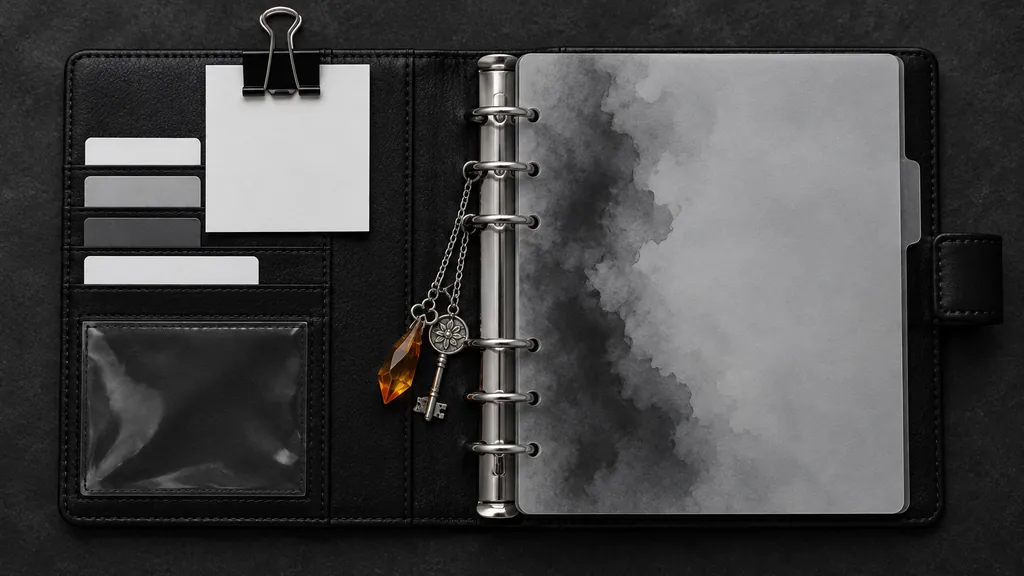
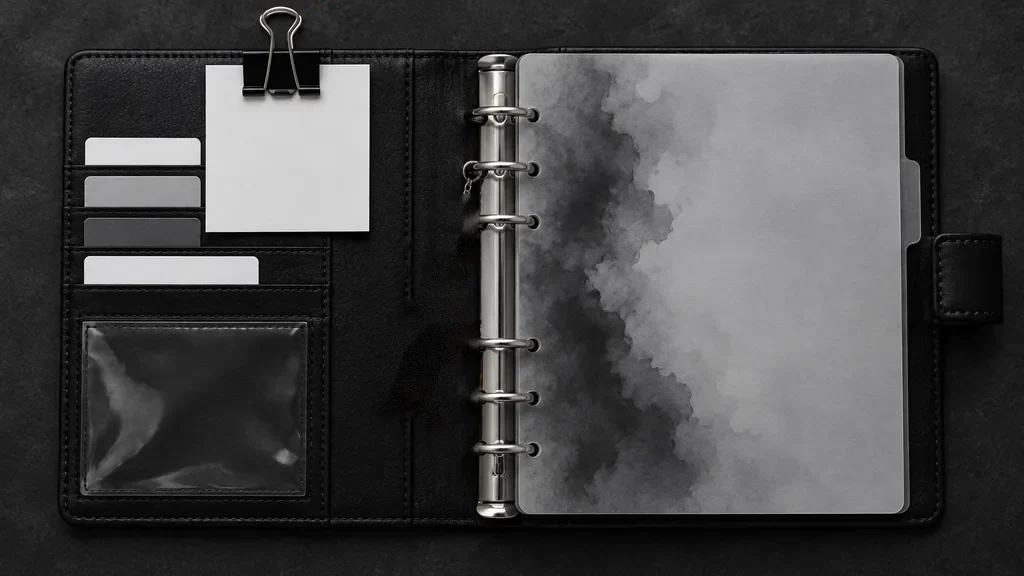
v107: agenda cerrada A5 centrada, dije realista dentro y fuera (se mece), polaroid sin tapar la nota, sombras de contacto
Claude-Session: https://claude.ai/code/session_01BB8eTEaLMvEnfDMWBboEm5

Changed region(s): [[0.3438, 0.3438, 0.4688, 0.75]]

diff --git a/sw.js b/sw.js
@@ -1,7 +1,7 @@
 // Funciona sin internet y aunque el sitio esté pausado: guarda TODA la app
 // (incluidos los decodificadores de imágenes de PDF) en el dispositivo.
-const V = 'apuntes-v106';
-const CORE = ["./", "js/ambient.js", "css/app.css", "icons/apple-180.png", "icons/icon-192.png", "icons/icon-512.png", "icons/maskable-512.png", "index.html", "js/app.js", "js/db.js", "js/fonts.js", "js/home.js", "js/imageeditor.js", "js/ink.js", "js/minikb.js", "js/tpledit.js", "js/notebook.js", "js/pdfview.js", "js/stickers.js", "js/study.js", "js/summarizer.js", "js/sync.js", "js/solver.js", "js/loona.js", "js/recorder.js", "js/music.js", "js/backup.js", "js/handsfree.js", "js/cmds.js", "js/quota.js", "js/coach.js", "js/errors.js", "js/quiz.js", "js/plan.js", "js/game.js", "data/indices.json", "js/live.js", "js/agenda.js", "vendor/page-flip/page-flip.module.js", "img/portada.webp", "img/marco.webp", "img/marco-top.webp", "img/clip.webp", "img/borde-bio.webp", "img/hero-bio.webp", "img/hero-quim.webp", "img/hero-gen.webp", "img/borde-quim.webp", "img/borde-gen.webp", "img/dije-fuera.webp", "img/nota-luna.webp", "img/marco-top-claro.webp", "img/marco-top-grafito.webp", "img/cuero.jpg", "img/papel.jpg", "img/agenda.webp", "img/ola-top.webp", "img/ola-big.webp", "img/lam-celula-top.webp", "img/lam-celula-big.webp", "img/lam-genetica-top.webp", "img/lam-genetica-big.webp", "img/lam-corpo-top.webp", "img/lam-corpo-big.webp", "img/lam-plantas-top.webp", "img/lam-plantas-big.webp", "img/lam-quimica-top.webp", "img/lam-quimica-big.webp", "img/lam-fisica-top.webp", "img/lam-fisica-big.webp", "img/lam-mar-top.webp", "img/lam-mar-big.webp", "img/agenda-s.webp", "img/deco-polaroid.webp", "img/deco-corazon.webp", "img/deco-sello.webp", "img/grano.png", "js/tapes.js", "js/templates.js", "js/ui.js", "js/wheel.js", "manifest.webmanifest", "vendor/katex/katex.min.js", "vendor/katex/katex.min.css", "vendor/katex/fonts/KaTeX_AMS-Regular.woff2", "vendor/katex/fonts/KaTeX_Caligraphic-Bold.woff2", "vendor/katex/fonts/KaTeX_Caligraphic-Regular.woff2", "vendor/katex/fonts/KaTeX_Fraktur-Bold.woff2", "vendor/katex/fonts/KaTeX_Fraktur-Regular.woff2", "vendor/katex/fonts/KaTeX_Main-Bold.woff2", "vendor/katex/fonts/KaTeX_Main-BoldItalic.woff2", "vendor/katex/fonts/KaTeX_Main-Italic.woff2", "vendor/katex/fonts/KaTeX_Main-Regular.woff2", "vendor/katex/fonts/KaTeX_Math-BoldItalic.woff2", "vendor/katex/fonts/KaTeX_Math-Italic.woff2", "vendor/katex/fonts/KaTeX_SansSerif-Bold.woff2", "vendor/katex/fonts/KaTeX_SansSerif-Italic.woff2", "vendor/katex/fonts/KaTeX_SansSerif-Regular.woff2", "vendor/katex/fonts/KaTeX_Script-Regular.woff2", "vendor/katex/fonts/KaTeX_Size1-Regular.woff2", "vendor/katex/fonts/KaTeX_Size2-Regular.woff2", "vendor/katex/fonts/KaTeX_Size3-Regular.woff2", "vendor/katex/fonts/KaTeX_Size4-Regular.woff2", "vendor/katex/fonts/KaTeX_Typewriter-Regular.woff2", "vendor/pdf-lib.min.js", "vendor/pdf.min.mjs", "vendor/pdf.worker.min.mjs", "vendor/standard_fonts/FoxitDingbats.pfb", "vendor/standard_fonts/FoxitFixed.pfb", "vendor/standard_fonts/FoxitFixedBold.pfb", "vendor/standard_fonts/FoxitFixedBoldItalic.pfb", "vendor/standard_fonts/FoxitFixedItalic.pfb", "vendor/standard_fonts/FoxitSerif.pfb", "vendor/standard_fonts/FoxitSerifBold.pfb", "vendor/standard_fonts/FoxitSerifBoldItalic.pfb", "vendor/standard_fonts/FoxitSerifItalic.pfb", "vendor/standard_fonts/FoxitSymbol.pfb", "vendor/standard_fonts/LiberationSans-Bold.ttf", "vendor/standard_fonts/LiberationSans-BoldItalic.ttf", "vendor/standard_fonts/LiberationSans-Italic.ttf", "vendor/standard_fonts/LiberationSans-Regular.ttf", "vendor/wasm/jbig2.wasm", "vendor/wasm/jbig2_nowasm_fallback.js", "vendor/wasm/openjpeg.wasm", "vendor/wasm/openjpeg_nowasm_fallback.js", "vendor/wasm/qcms_bg.wasm"];
+const V = 'apuntes-v107';
+const CORE = ["./", "js/ambient.js", "css/app.css", "icons/apple-180.png", "icons/icon-192.png", "icons/icon-512.png", "icons/maskable-512.png", "index.html", "js/app.js", "js/db.js", "js/fonts.js", "js/home.js", "js/imageeditor.js", "js/ink.js", "js/minikb.js", "js/tpledit.js", "js/notebook.js", "js/pdfview.js", "js/stickers.js", "js/study.js", "js/summarizer.js", "js/sync.js", "js/solver.js", "js/loona.js", "js/recorder.js", "js/music.js", "js/backup.js", "js/handsfree.js", "js/cmds.js", "js/quota.js", "js/coach.js", "js/errors.js", "js/quiz.js", "js/plan.js", "js/game.js", "data/indices.json", "js/live.js", "js/agenda.js", "vendor/page-flip/page-flip.module.js", "img/portada.webp", "img/marco.webp", "img/marco-top.webp", "img/clip.webp", "img/borde-bio.webp", "img/hero-bio.webp", "img/hero-quim.webp", "img/hero-gen.webp", "img/borde-quim.webp", "img/borde-gen.webp", "img/dije-fuera.webp", "img/dije-real.webp", "img/nota-luna.webp", "img/marco-top-claro.webp", "img/marco-top-grafito.webp", "img/cuero.jpg", "img/papel.jpg", "img/agenda.webp", "img/ola-top.webp", "img/ola-big.webp", "img/lam-celula-top.webp", "img/lam-celula-big.webp", "img/lam-genetica-top.webp", "img/lam-genetica-big.webp", "img/lam-corpo-top.webp", "img/lam-corpo-big.webp", "img/lam-plantas-top.webp", "img/lam-plantas-big.webp", "img/lam-quimica-top.webp", "img/lam-quimica-big.webp", "img/lam-fisica-top.webp", "img/lam-fisica-big.webp", "img/lam-mar-top.webp", "img/lam-mar-big.webp", "img/agenda-s.webp", "img/deco-polaroid.webp", "img/deco-corazon.webp", "img/deco-sello.webp", "img/grano.png", "js/tapes.js", "js/templates.js", "js/ui.js", "js/wheel.js", "manifest.webmanifest", "vendor/katex/katex.min.js", "vendor/katex/katex.min.css", "vendor/katex/fonts/KaTeX_AMS-Regular.woff2", "vendor/katex/fonts/KaTeX_Caligraphic-Bold.woff2", "vendor/katex/fonts/KaTeX_Caligraphic-Regular.woff2", "vendor/katex/fonts/KaTeX_Fraktur-Bold.woff2", "vendor/katex/fonts/KaTeX_Fraktur-Regular.woff2", "vendor/katex/fonts/KaTeX_Main-Bold.woff2", "vendor/katex/fonts/KaTeX_Main-BoldItalic.woff2", "vendor/katex/fonts/KaTeX_Main-Italic.woff2", "vendor/katex/fonts/KaTeX_Main-Regular.woff2", "vendor/katex/fonts/KaTeX_Math-BoldItalic.woff2", "vendor/katex/fonts/KaTeX_Math-Italic.woff2", "vendor/katex/fonts/KaTeX_SansSerif-Bold.woff2", "vendor/katex/fonts/KaTeX_SansSerif-Italic.woff2", "vendor/katex/fonts/KaTeX_SansSerif-Regular.woff2", "vendor/katex/fonts/KaTeX_Script-Regular.woff2", "vendor/katex/fonts/KaTeX_Size1-Regular.woff2", "vendor/katex/fonts/KaTeX_Size2-Regular.woff2", "vendor/katex/fonts/KaTeX_Size3-Regular.woff2", "vendor/katex/fonts/KaTeX_Size4-Regular.woff2", "vendor/katex/fonts/KaTeX_Typewriter-Regular.woff2", "vendor/pdf-lib.min.js", "vendor/pdf.min.mjs", "vendor/pdf.worker.min.mjs", "vendor/standard_fonts/FoxitDingbats.pfb", "vendor/standard_fonts/FoxitFixed.pfb", "vendor/standard_fonts/FoxitFixedBold.pfb", "vendor/standard_fonts/FoxitFixedBoldItalic.pfb", "vendor/standard_fonts/FoxitFixedItalic.pfb", "vendor/standard_fonts/FoxitSerif.pfb", "vendor/standard_fonts/FoxitSerifBold.pfb", "vendor/standard_fonts/FoxitSerifBoldItalic.pfb", "vendor/standard_fonts/FoxitSerifItalic.pfb", "vendor/standard_fonts/FoxitSymbol.pfb", "vendor/standard_fonts/LiberationSans-Bold.ttf", "vendor/standard_fonts/LiberationSans-BoldItalic.ttf", "vendor/standard_fonts/LiberationSans-Italic.ttf", "vendor/standard_fonts/LiberationSans-Regular.ttf", "vendor/wasm/jbig2.wasm", "vendor/wasm/jbig2_nowasm_fallback.js", "vendor/wasm/openjpeg.wasm", "vendor/wasm/openjpeg_nowasm_fallback.js", "vendor/wasm/qcms_bg.wasm"];
 self.addEventListener('install', e => {
   e.waitUntil(caches.open(V).then(async c => {
     // de a poco, para que un archivo que falle no impida guardar el resto

diff --git a/js/home.js b/js/home.js
@@ -1,6 +1,6 @@
 // Inicio estilo launcher en cuero: materias como cuadernos, dock inferior.
 import * as db from './db.js';
-export const APP_VERSION = 106;
+export const APP_VERSION = 107;
 import * as sync from './sync.js';
 import { h, icon, iconBtn, COVERS, modal, ask, confirmBox, toast, pickFile, download } from './ui.js';
 import { addFontFiles, DAFONT } from './fonts.js';
@@ -81,6 +81,7 @@ export async function renderHome(app, go0) {
 
   const scene = h('div', { class: 'agenda closed' },
     h('img', { class: 'ag-bg', src: 'img/agenda.webp', srcset: 'img/agenda-s.webp 1024w, img/agenda.webp 1536w', sizes: '(max-width: 700px) 1000px, 100vw', alt: '', draggable: false, fetchpriority: 'high' }),
+    h('img', { class: 'ag-dije-in', src: 'img/dije-real.webp', alt: '', draggable: false, 'aria-hidden': 'true' }),   // dije realista colgado de la argolla
     h('button', { class: 'ag-z ag-note ag-hot', style: { left: '20%', top: '12.6%', width: '16.2%', height: '28.2%' }, 'aria-label': 'Nota del clip: escribe un recordatorio', title: 'Tu nota: toca para escribir un recordatorio', onclick: editNote },
       h('span', { class: 'ag-hi' }, saludo().hi),
       h('span', { class: 'ag-date' }, saludo().date),
@@ -91,7 +92,7 @@ export async function renderHome(app, go0) {
     card('c3', 8.5, 38.2, 10.8, 'Música', 'YouTube', () => import('./music.js').then(m => m.openMusic())),
     card('c4', 8.5, 45, 16.4, 'Ambiente', ambPlaying() ? 'sonando' : 'lluvia, chimenea…', e => ambientMenu(e.currentTarget)),
     pocket,
-    deco('polaroid', 28.3, 37.6, 7.4, 'rotate(5deg)', 'Polaroid: tu reto auténtico de hoy', autentica),
+    deco('polaroid', 29.7, 41.6, 6.4, 'rotate(3deg)', 'Polaroid: tu reto auténtico de hoy', autentica),
     deco('corazon', 29.2, 57, 7, 'rotate(-7deg)', 'Dato de medicina para el ENEM', medFact),
     deco('sello', 66, 72, 9.6, 'rotate(-8deg)', lastOk ? 'Sello: seguir estudiando' : 'Sello: nueva materia', () => lastOk ? go(lastS.hash) : newSubject(go)),
     portada(),
@@ -115,7 +116,7 @@ export async function renderHome(app, go0) {
   const cover = h('div', { class: 'ag-cover init', 'aria-hidden': 'true' },
     h('div', { class: 'agc-front' }, h('span', { class: 'agc-strap' }), h('span', { class: 'agc-name' }, 'Loona'), h('span', { class: 'agc-moon' }), h('span', { class: 'agc-hint' }, 'Toca para abrir')),
     h('div', { class: 'agc-back' }));
-  scene.append(h('div', { class: 'ag-desk', 'aria-hidden': 'true' }), h('img', { class: 'ag-dije-out', src: 'img/dije-fuera.webp', alt: '', draggable: false }), cover);
+  scene.append(h('div', { class: 'ag-desk', 'aria-hidden': 'true' }), h('img', { class: 'ag-dije-out', src: 'img/dije-real.webp', alt: '', draggable: false }), cover);
   cover.addEventListener('click', () => openAgenda());
   // tarjeta «Plan de hoy»: capítulos que tocan hoy y preguntas para repasar
   Promise.all([import('./plan.js').then(m => m.todayPlan()), import('./errors.js').then(m => m.errorsSummary())]).then(([t, e]) => {

diff --git a/css/app.css b/css/app.css
@@ -2050,3 +2050,27 @@ html.lite .sum.tpl-lamina .lam-big { animation: none !important; }
 .plan-ahead.hot { border-color: #D4202C; border-style: solid; box-shadow: 0 0 18px rgba(212,32,44,.2); }
 .plan-pace { margin: 0; padding: 8px 12px; border-radius: 10px; background: rgba(255,255,255,.04); font-weight: 600; }
 .plan-pace.up { color: #5fd39c; } .plan-pace.down { color: #ffb4b8; }
+
+/* ============ v107: agenda cerrada en formato A5 (centrada) y dije realista que se mece ============ */
+.agenda .ag-cover { width: 33.2% !important; transition: translate .9s cubic-bezier(.65,.05,.25,1); }
+.agenda.closed .ag-cover { translate: -13.4cqw 0; }
+.agenda::after { content: ''; position: absolute; top: 0; right: 0; width: 34%; height: 100%; z-index: 5; pointer-events: none; opacity: 0;
+  background: radial-gradient(120% 100% at 20% 50%, #1b1a1b, #121112 70%); transition: opacity .35s ease .45s; }
+.agenda.closed::after { opacity: 1; transition-delay: 0s; }
+.agenda.closed .ag-desk { width: 66.5%; }
+.ag-dije-out { left: 31.2% !important; top: 18% !important; width: 4.6% !important; transform-origin: 50% 3% !important; translate: 0 0; transition: translate .9s cubic-bezier(.65,.05,.25,1);
+  filter: drop-shadow(.35cqw .7cqw .45cqw rgba(0,0,0,.75)) drop-shadow(0 0 .2cqw rgba(0,0,0,.5)) !important; }
+.agenda.closed .ag-dije-out { animation: dijeSway 6.5s ease-in-out infinite !important; transform: rotate(3deg); }
+@keyframes dijeSway { 0%, 100% { transform: rotate(3.5deg); } 50% { transform: rotate(-2.5deg); } }
+.agenda:not(.closed) .ag-dije-out { translate: 13.4cqw 0; }
+@media (prefers-reduced-motion: reduce) { .agenda.closed .ag-dije-out { animation: none !important; } }
+.ag-dije-in { position: absolute; left: 41.9%; top: 35.2%; width: 7.4%; height: auto; z-index: 3; pointer-events: none; transform-origin: 50% 2.5%; transform: rotate(14deg);
+  filter: drop-shadow(.5cqw .9cqw .5cqw rgba(0,0,0,.8)) drop-shadow(0 0 .25cqw rgba(0,0,0,.6)); animation: dijeIn 7s ease-in-out infinite; }
+@keyframes dijeIn { 0%, 100% { transform: rotate(14deg); } 50% { transform: rotate(10.5deg); } }
+.agenda.closed .ag-dije-in { visibility: hidden; }
+html.lite .ag-dije-in, html.lite .agenda.closed .ag-dije-out { animation: none !important; }
+@media (prefers-reduced-motion: reduce) { .ag-dije-in { animation: none; } }
+/* realismo: sombras de contacto suaves en todo lo que está "apoyado" sobre la agenda */
+.ag-deco img, .ag-deco { filter: drop-shadow(.25cqw .45cqw .35cqw rgba(0,0,0,.55)) drop-shadow(0 .05cqw .08cqw rgba(0,0,0,.6)); }
+.ag-card { box-shadow: 0 .35cqw .6cqw -.15cqw rgba(0,0,0,.7), inset 0 1px 0 rgba(255,255,255,.25) !important; }
+.ag-note { box-shadow: .3cqw .6cqw 1cqw -.2cqw rgba(0,0,0,.75) !important; }

diff --git a/LEEME.md b/LEEME.md
@@ -190,3 +190,8 @@ Usa **Cloudflare Pages**: dash.cloudflare.com → Workers & Pages → Create →
 - Ritmo diario fijo: lo que adelantas no aligera los días siguientes, hace que termines antes y ganes semanas de repaso; si te atrasas, se reparte solo.
 - «¿Sigues? Adelanta»: al terminar el plan de hoy aparecen las próximas unidades (+25 XP extra cada una, logro «Adelantada»).
 - Indicador «Vas N días adelantada/atrasada» y fecha en que terminas el contenido.
+
+## v107 — Agenda A5 y dijes realistas
+- La agenda cerrada tiene proporción A5 (148 × 210) y queda centrada; al abrirla se desliza a su lugar.
+- Dije realista nuevo (`img/dije-real.webp`) por fuera de la tapa y dentro de la agenda, colgado de la argolla y meciéndose; se quitó el dije viejo de la foto.
+- Polaroid ya no tapa la nota «XOXO, Loona»; sombras de contacto suaves en tarjetas, notas y adornos.
